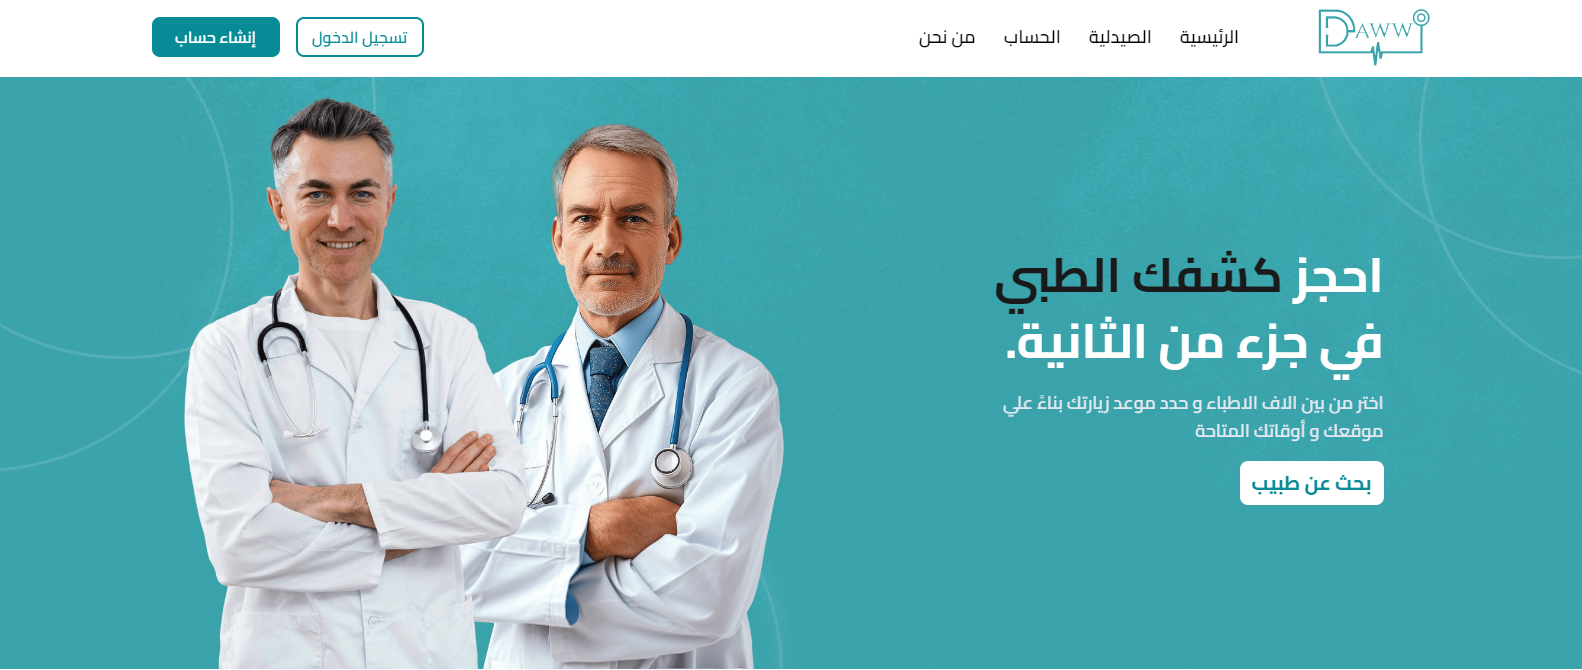
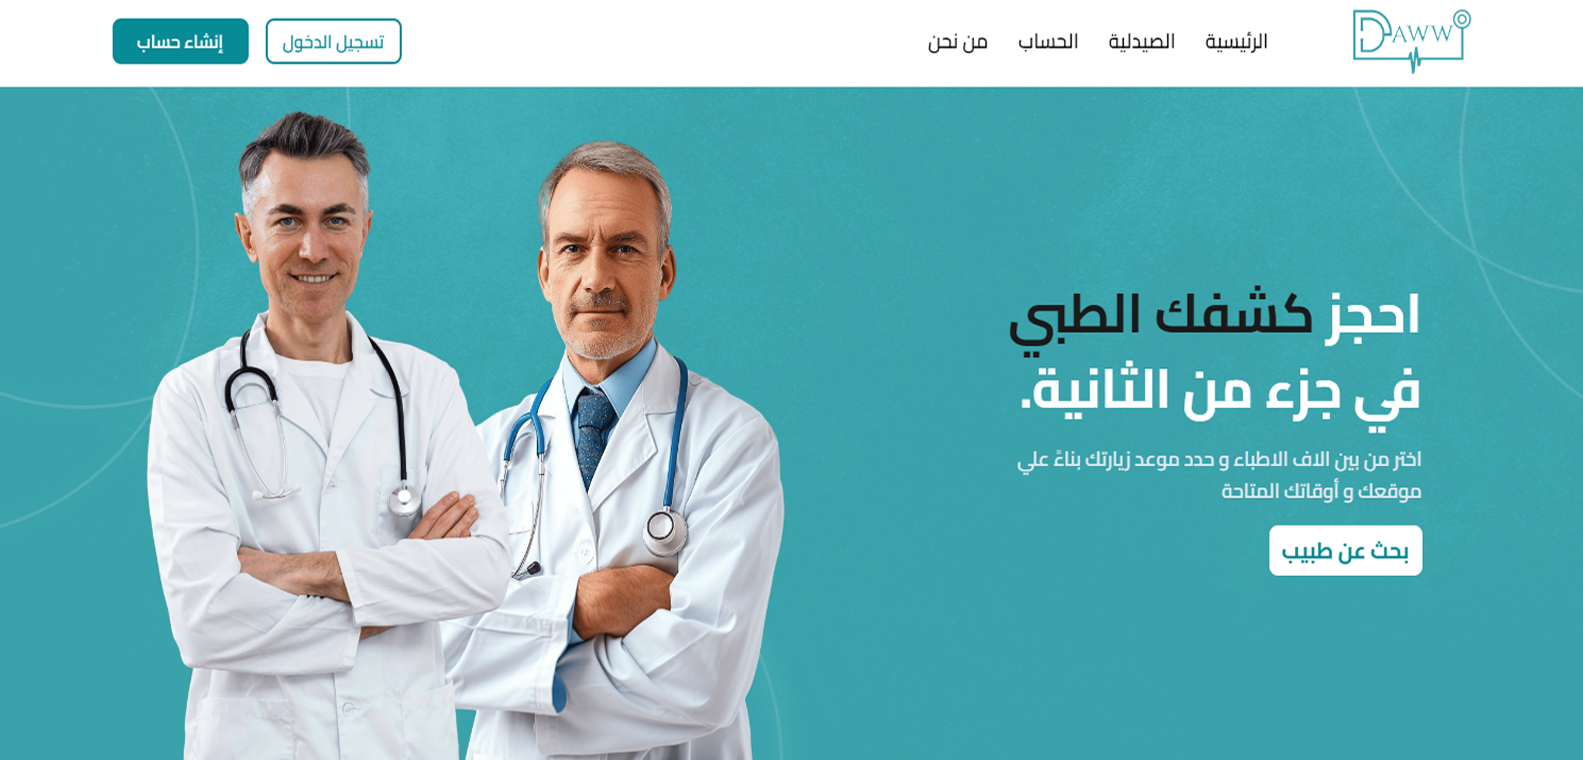
remove cursor div & project photo size

diff --git a/index.html b/index.html
@@ -584,7 +584,7 @@
     </footer>
 
 
-    <div class="cursor"></div>
+    <!-- <div class="cursor"></div> -->
 
 
 
